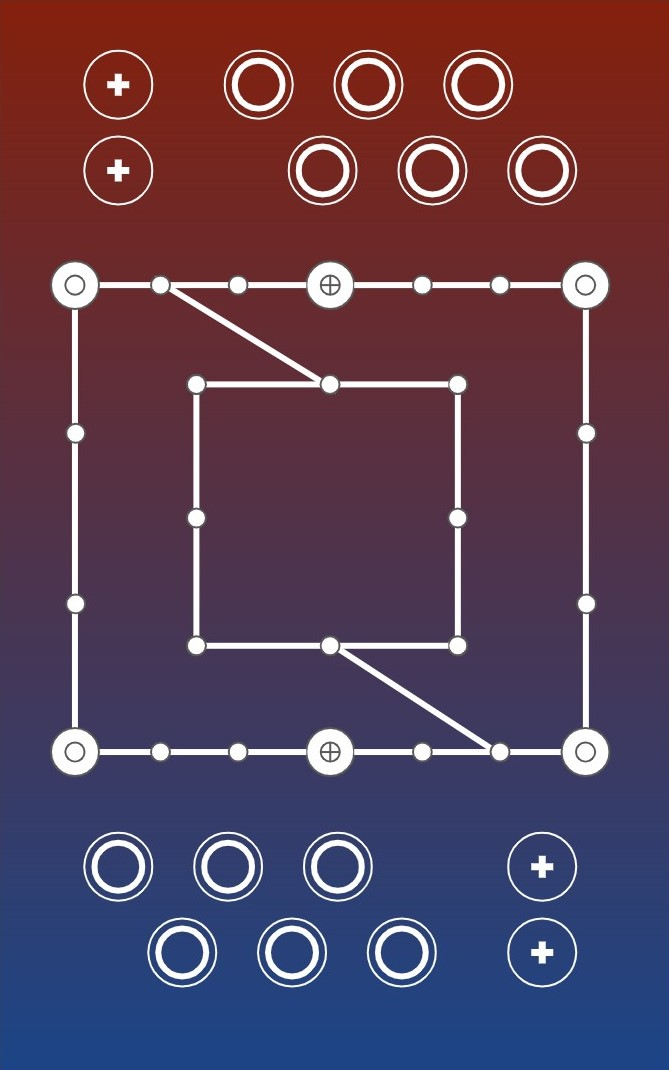
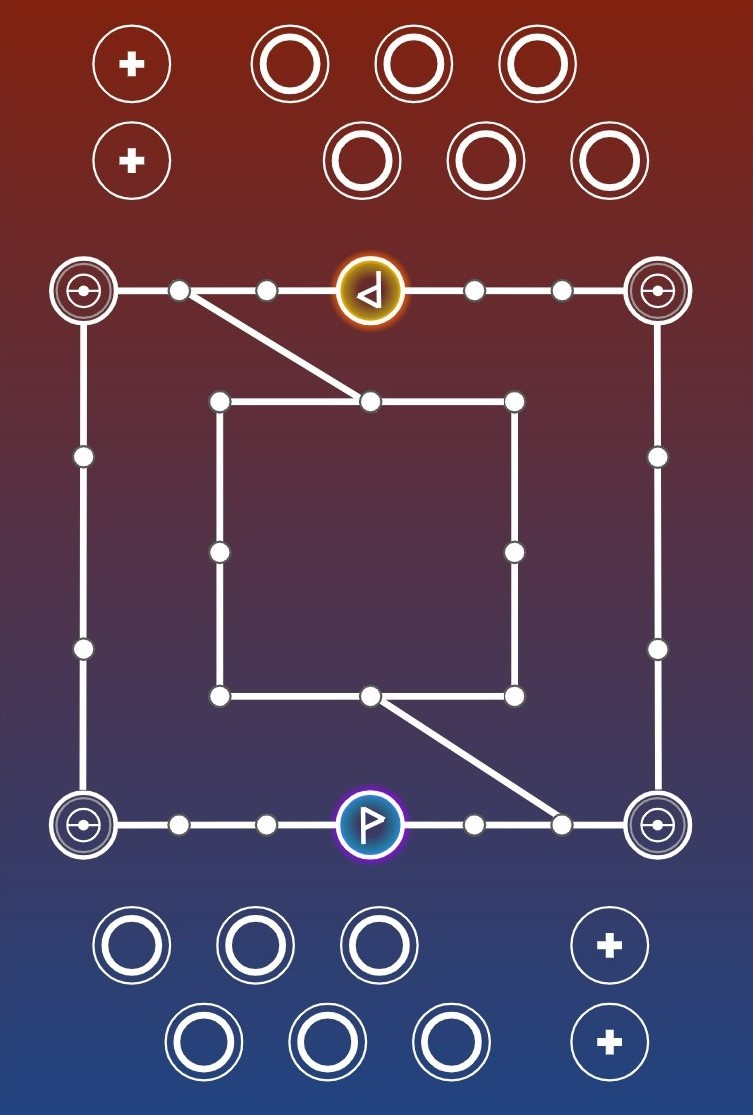
addded images to readme

diff --git a/README.md b/README.md
@@ -48,7 +48,7 @@ You can also send an opposing Pokemon to their Pokemon Center by surrounding you
 ## Terminology
 
 ### The Game Board
-![Game Baord Image](README_Images/Pokemon_Duel_Game_Board.jpg)
+![Game Board Image](README_Images/Pokemon_Duel_Game_Board.jpg)
 
 ### Bench
 The Bench is where your Pokemon sit at the start of the match. Any Pokemon on the Bench can be moved into play through the Spawn Points.
@@ -56,12 +56,14 @@ The Bench is where your Pokemon sit at the start of the match. Any Pokemon on th
 ### Spawn Point(s)
 These are the points on each corner of the field where your Pokemon enter the field. If these points are blocked on your side, either by yourself or by your opponent, you will not be able to move your Pokemon onto the field. If you have no Pokemon on the field and your opponent is blocking your Spawn Points, they will incur a Wait Win.
 
+![Game Spawn Points Image](README_Images/Game_Board_Spawn_Point_Highlight.jpg)
+
 ### Pokemon Center (PC)
 The PC, denoted by the ‘+’ sign, is where your Pokemon go after they lose a battle. If there are already two Pokemon in the PC, the first Pokemon gets moved to the Bench and its MP is lowered to 0 for one turn. The Pokemon that lost the battle can now go in the PC. Some Pokemon have special abilities that allow them to move from the PC to the Bench instead of having another Pokemon eject them from the PC.
 
-## Example Gameplay
+![Game Spawn Points Image](README_Images/Game_Board_PC_Highlight.jpg)
 
-## Additional Features
+## Example Gameplay
 
 ## FAQs
 
